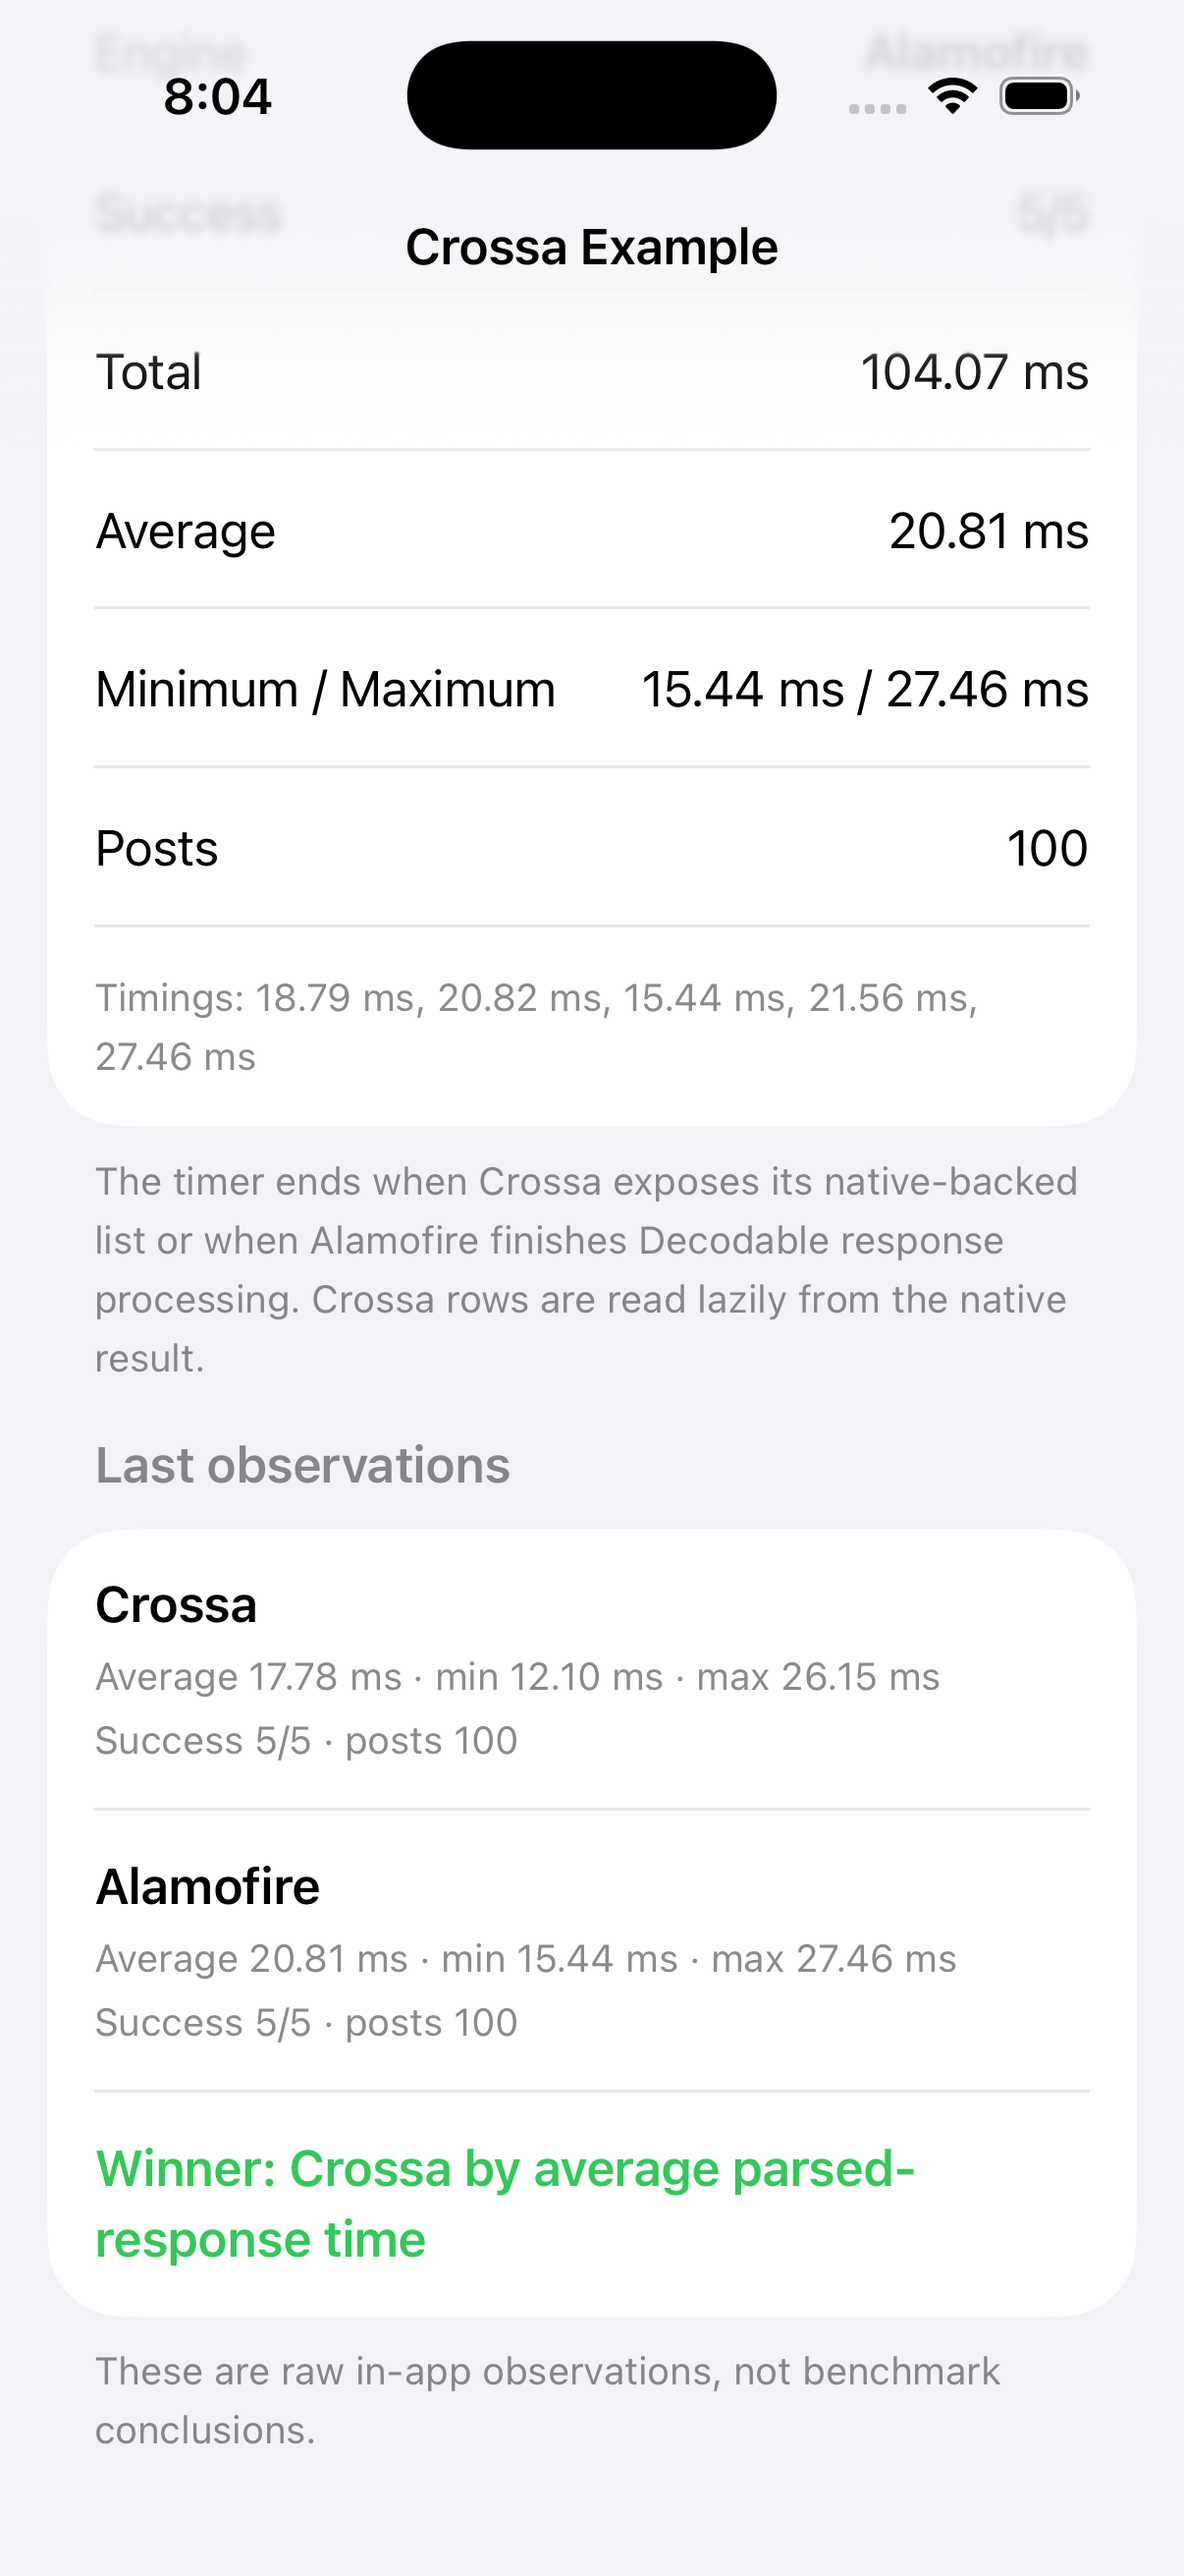
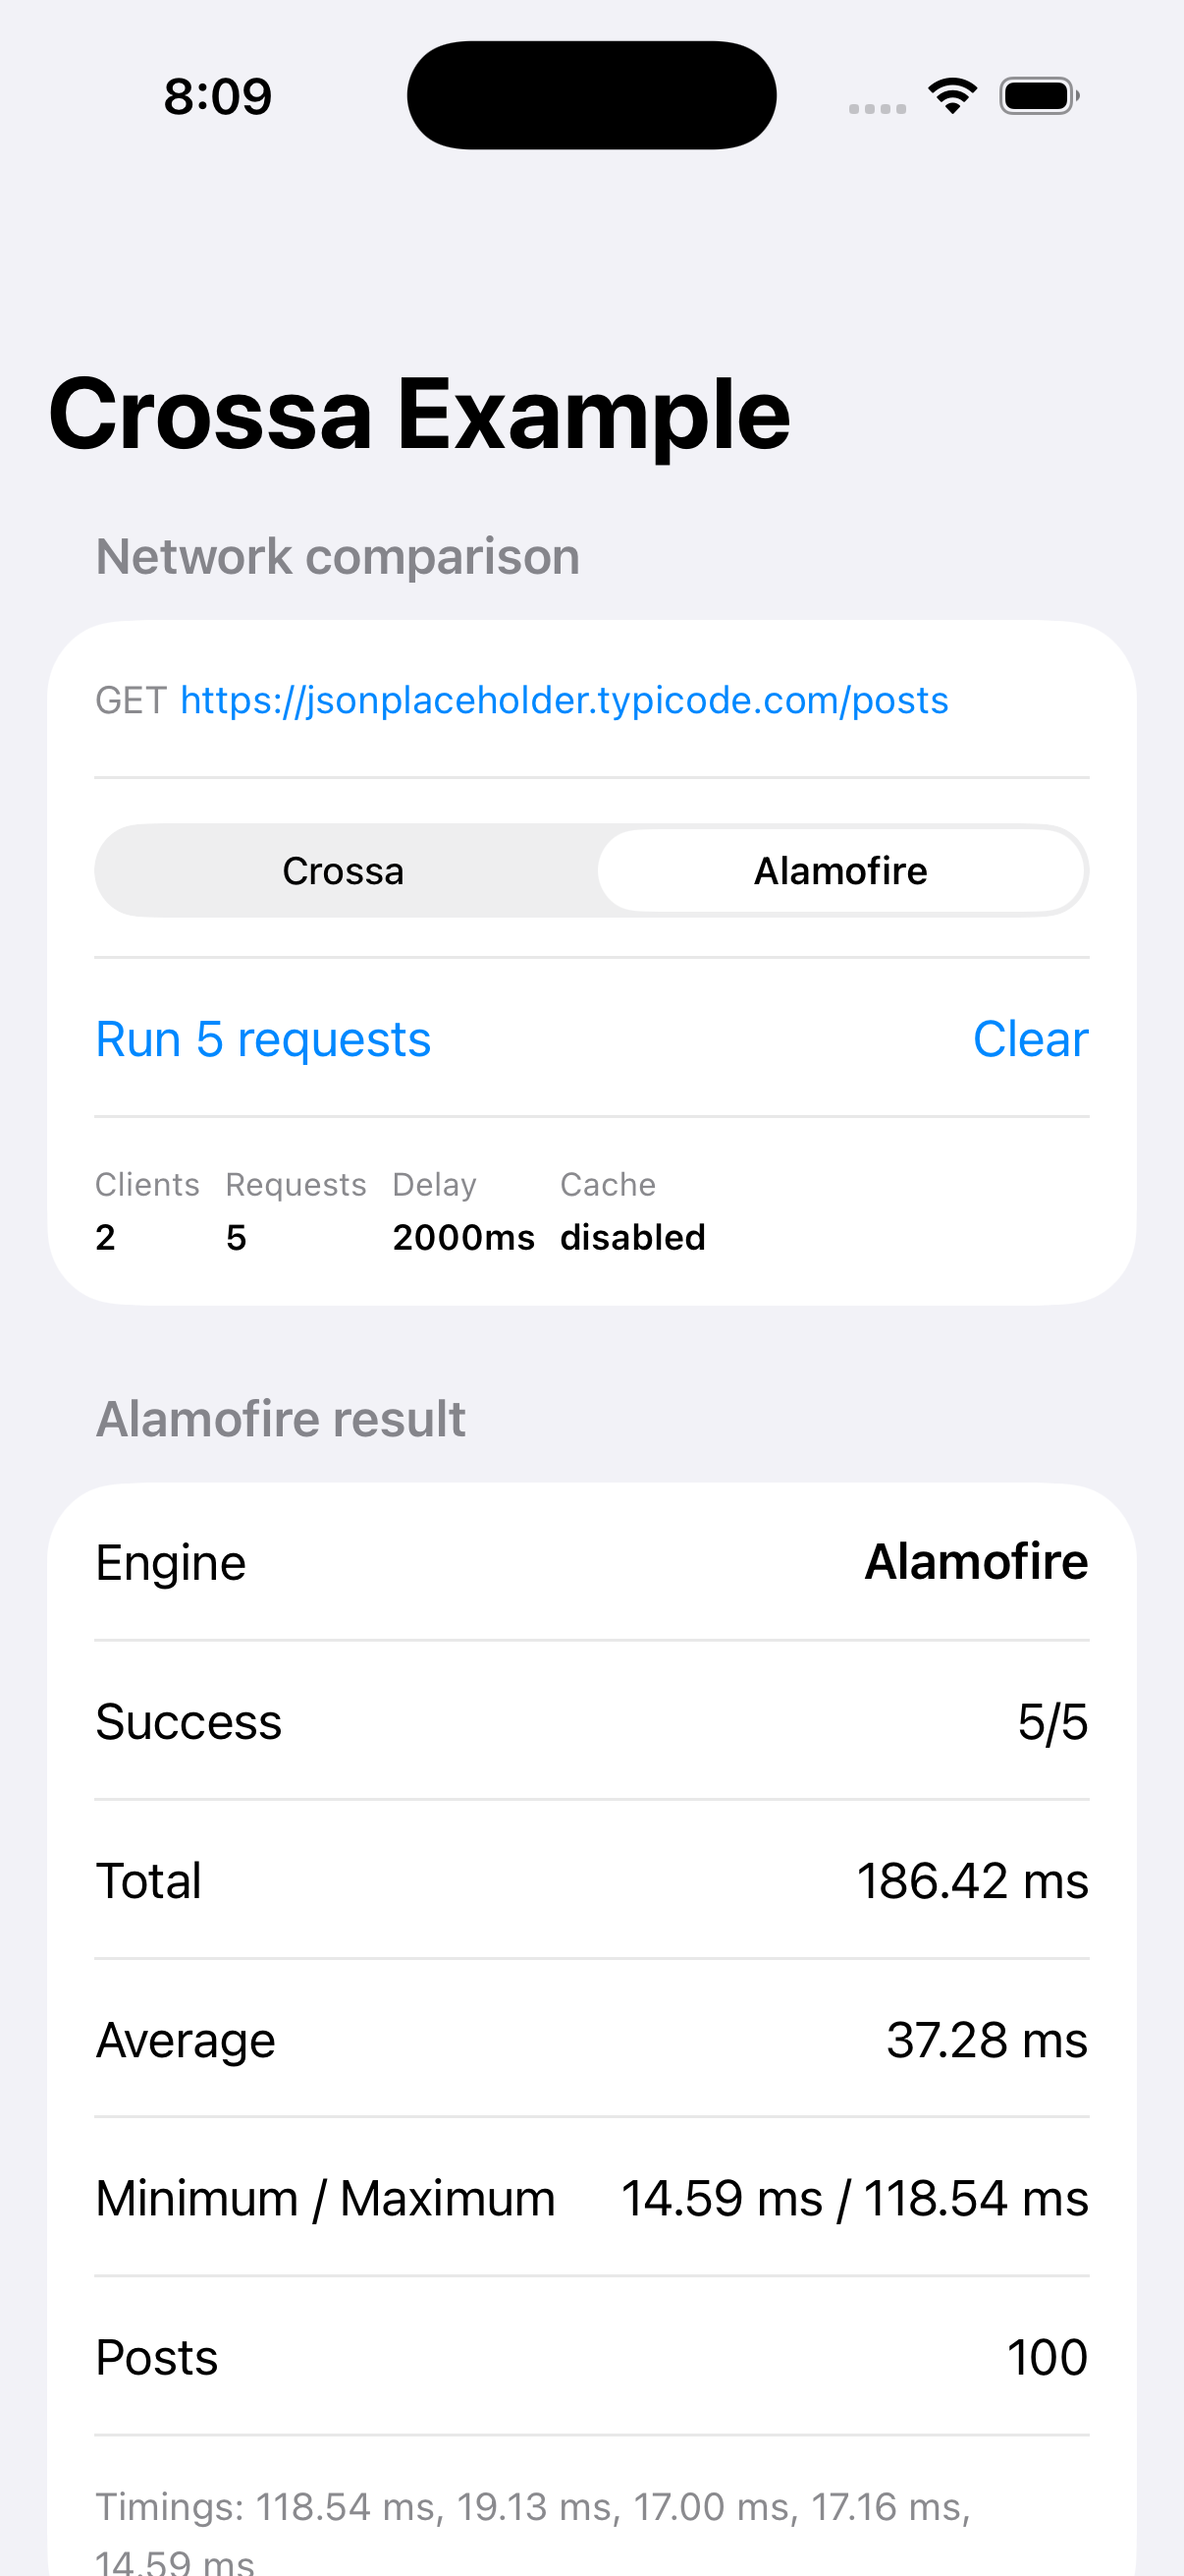
New Update

diff --git a/README.md b/README.md
@@ -106,18 +106,18 @@ The active Crossa `CrossaOperation` and Alamofire `DataRequest` are retained by 
 
 ## Latest run (2026-09-06)
 
-Built from the rebuilt Crossa 0.1.0 host compiler and a freshly generated Debug `Crossa.xcframework` (`ios-arm64` + `ios-arm64-simulator`), then installed on an iPhone 17 Pro simulator running iOS 26.2. Each engine sent 5 uncached `GET https://jsonplaceholder.typicode.com/posts` requests with a 2000ms delay.
+Rebuilt with the same native HTTP transport fix used on Android (`CURLOPT_HTTP_VERSION_2TLS` is attempted, then HTTP/1.1 is used when HTTP/2 is unavailable). Debug `Crossa.xcframework` (`ios-arm64` + `ios-arm64-simulator`) on an iPhone 17 Pro simulator, iOS 26.2.
 
-The app auto-ran the comparison twice during launch (SwiftUI `onAppear`). Both runs completed 5/5 with 100 posts:
+One comparison of 5 uncached `GET https://jsonplaceholder.typicode.com/posts` requests with a 2000ms delay. Both engines completed 5/5 with 100 posts. No transport-option failures.
 
-| Run | Crossa average | Alamofire 5.12.0 average | Winner |
-|---|---|---|---|
-| 1 | 26.45 ms (min 11.90, max 80.24) | 24.18 ms (min 15.13, max 55.80) | Alamofire |
-| 2 | **17.78 ms** (min 12.10, max 26.15) | 20.81 ms (min 15.44, max 27.46) | **Crossa** |
+| Rank | Engine | Average | Min | Max | Success |
+|---|---|---|---|---|---|
+| 1 | **Crossa** | **29.19 ms** | 14.54 ms | 80.30 ms | 5/5 |
+| 2 | Alamofire 5.12.0 | 37.28 ms | 14.59 ms | 118.54 ms | 5/5 |
 
-On iOS Simulator the two engines are close. The captured screen is run 2, where Crossa is slightly ahead:
+**Crossa still wins on iOS** in this rebuild, with a smaller gap than Android. Screenshot of the completed Alamofire card after both engines finished:
 
-![iOS benchmark results showing Crossa as winner](docs/screenshots/ios-benchmark-results.png)
+![iOS benchmark results](docs/screenshots/ios-benchmark-results.png)
 
 These are raw in-app observations from the repository call until the parsed list is available to SwiftUI. They are not a formal device benchmark.
 
